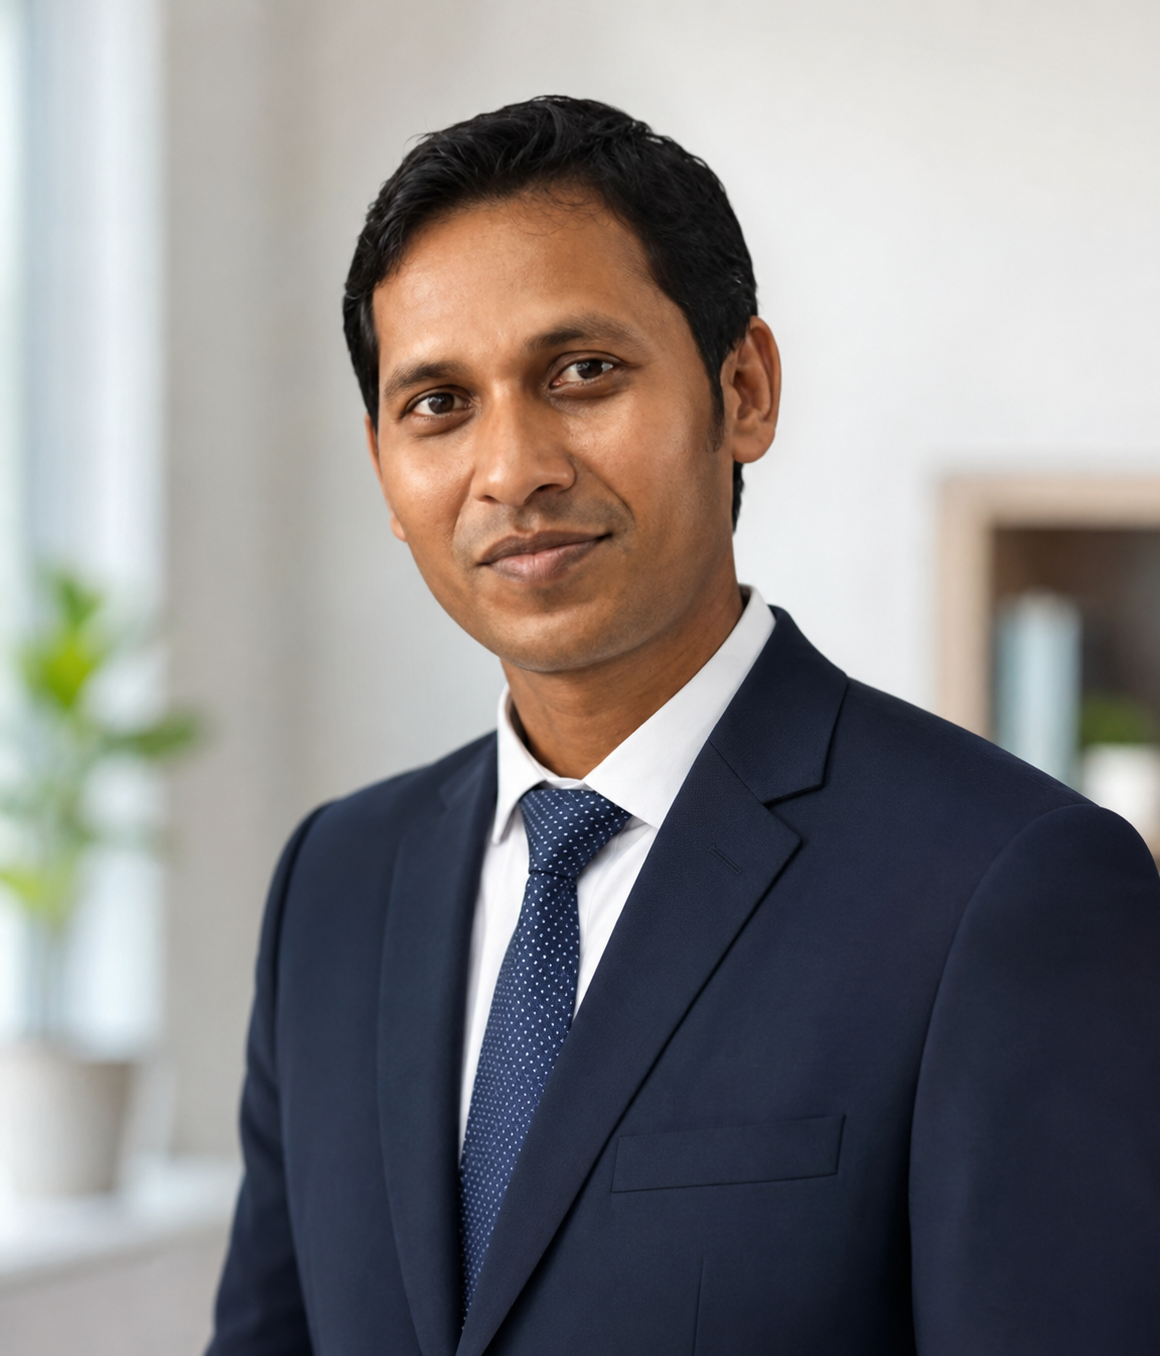
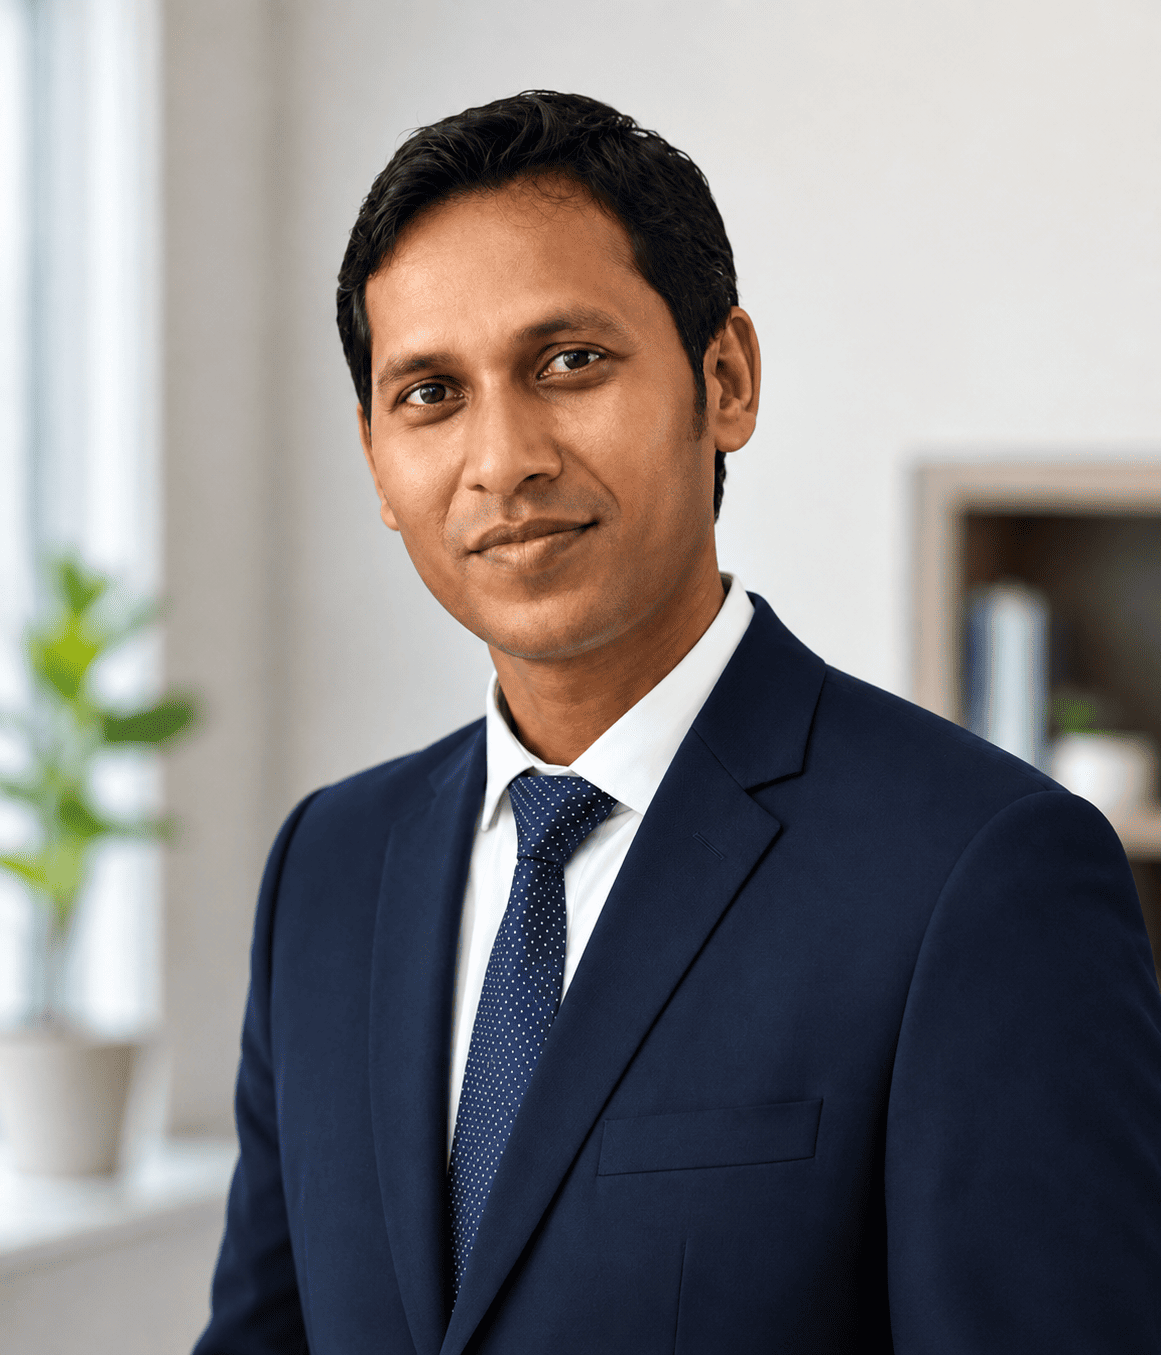
Updated photo, corriclum and fee structure part

diff --git a/data/coCurricularData.ts b/data/coCurricularData.ts
@@ -20,8 +20,8 @@ export const coCurricularData: CoCurricularSectionData[] = [
     id: "arts-creativity",
     title: "Arts & Creativity",
     subtitle: "Nurturing imagination through colour, design, and handmade expression.",
-    image: "/images/drawing.jpeg",
-    images: ["/images/drawing.jpeg", "/images/rangoli.jpg"],
+    image: "/images/drawing.png",
+    images: ["/images/drawing.png", "/images/rangoli.jpg"],
     layout: "stack",
     accent: "orange",
     items: [
@@ -39,8 +39,8 @@ export const coCurricularData: CoCurricularSectionData[] = [
     id: "performing-arts",
     title: "Performing Arts",
     subtitle: "Bringing rhythm, movement, voice and stagecraft to life.",
-    image: "/images/holistic.jpg",
-    images: ["/images/holistic.jpg", "/images/creative.jpg"],
+    image: "/images/holistic.png",
+    images: ["/images/holistic.png", "/images/creative.jpg"],
     layout: "gallery",
     accent: "purple",
     items: [
@@ -93,8 +93,8 @@ export const coCurricularData: CoCurricularSectionData[] = [
     id: "academic-enrichment",
     title: "Academic Enrichment",
     subtitle: "Encouraging curiosity beyond the regular classroom curriculum.",
-    image: "/images/olympiad-prize.jpeg",
-    images: ["/images/olympiad-prize.jpeg", "/images/olympiad-prize-2.jpeg"],
+    image: "/images/olympiad-prize.png",
+    images: ["/images/olympiad-prize.png", "/images/olympiad-prize-2.png"],
     layout: "split",
     accent: "sky",
     items: [
@@ -113,7 +113,7 @@ export const coCurricularData: CoCurricularSectionData[] = [
     title: "Cultural Activities",
     subtitle: "Celebrating traditions, values and shared joy in the school community.",
     image: "/images/gallery/gallery11.jpg",
-    images: ["/images/gallery/gallery11.jpg", "/images/holistic.jpg"],
+    images: ["/images/gallery/gallery11.jpg", "/images/holistic.png"],
     layout: "gallery",
     accent: "orange",
     items: [

diff --git a/components/home/Olympiad.tsx b/components/home/Olympiad.tsx
@@ -45,32 +45,32 @@ export default function Olympiad() {
 
           <div className="flex flex-wrap justify-center gap-4 mt-4">
             <img
-              src="/images/olympiad1.jpeg"
+              src="/images/olympiad1.png"
               alt="Olympiad 1"
               className="w-full md:w-[48%] lg:w-[23%] object-cover rounded-lg shadow-md"
             />
             <img
-              src="/images/olympiad2.jpeg"
+              src="/images/olympiad2.png"
               alt="Olympiad 2"
               className="w-full md:w-[48%] lg:w-[23%] object-cover rounded-lg shadow-md"
             />
             <img
-              src="/images/olympiad3.jpeg"
+              src="/images/olympiad3.png"
               alt="Olympiad 3"
               className="w-full md:w-[48%] lg:w-[23%] object-cover rounded-lg shadow-md"
             />
             <img
-              src="/images/olympiad4.jpeg"
+              src="/images/olympiad4.png"
               alt="Olympiad 4"
               className="w-full md:w-[48%] lg:w-[23%] object-cover rounded-lg shadow-md"
             />
             <img
-              src="/images/olympiad-prize.jpeg"
+              src="/images/olympiad-prize.png"
               alt="Olympiad 5"
               className="w-full md:w-[48%] lg:w-[47.5%] object-cover rounded-lg shadow-md"
             />
             <img
-              src="/images/olympiad-prize-2.jpeg"
+              src="/images/olympiad-prize-2.png"
               alt="Olympiad 5"
               className="w-full md:w-[48%] lg:w-[47.5%] object-cover rounded-lg shadow-md"
             />

diff --git a/components/Navbar.tsx b/components/Navbar.tsx
@@ -38,7 +38,7 @@ export default function Navbar() {
       label: "Admission",
       children: [
         { href: "/admission/admission-process", label: "Admission Process", icon: "user" },
-        { href: "/admission/fees", label: "School Fee", icon: "money" },
+        { href: "/admission/fees", label: "Fee Structure", icon: "money" },
       ],
     },
     { href: "/gallery", label: "Gallery" },
@@ -261,7 +261,7 @@ export default function Navbar() {
               className="w-10 h-10 object-contain"
             />
             <div>
-              <h5 className="font-bold text-orange-600 leading-tight">RM Suncity</h5>
+              <h5 className="font-bold text-orange-600 leading-tight">RM SUNCITY</h5>
               <p className="text-xs font-semibold text-gray-700 uppercase tracking-wider">
                 Public School
               </p>

diff --git a/app/academics/curriculum/page.tsx b/app/academics/curriculum/page.tsx
@@ -114,8 +114,8 @@ export default function Academics() {
           </div>
         </section>
 
-        <section className="bg-white px-4 py-12 sm:px-6 sm:py-16 md:py-20">
-          <div className="mx-auto max-w-5xl rounded-[32px] border border-gray-100 bg-gradient-to-r from-orange-500 to-orange-600 p-8 text-center text-white shadow-lg sm:p-10">
+        <section className="bg-gray-100 px-4 py-12 sm:px-6 sm:py-16 md:py-20">
+          <div className="mx-auto max-w-5xl rounded-[32px] bg-gradient-to-r from-amber-500 to-amber-600 p-8 text-center text-white shadow-lg sm:p-10">
             <h2 className="text-2xl font-semibold sm:text-3xl">
               Enroll today for a complete school journey
             </h2>

diff --git a/components/home/Highlights.tsx b/components/home/Highlights.tsx
@@ -24,13 +24,13 @@ const items = [
     title: "Holistic Development",
     description:
       "We support overall student growth through balanced learning in academics, sports, creativity, discipline, and character building.",
-    image: "/images/holistic.jpg",
+    image: "/images/holistic.png",
   },
   {
     title: "Computer Lab",
     description:
       "Students gain practical technology skills in our computer lab with access to modern systems and guided learning sessions.",
-    image: "/images/computer-lab.jpg",
+    image: "/images/computer-lab.png",
   },
   {
     title: "Rakshabandhan",

diff --git a/app/about/page.tsx b/app/about/page.tsx
@@ -6,7 +6,7 @@ import Achievements from "@/components/about/Achievements";
 
 export default function About() {
   return (
-    <main style={{ background: 'url("/images/bg_img1.jpg") no-repeat center/cover' }}>
+    <main style={{ background: 'url("/images/bg_img1.png") no-repeat center/cover' }}>
       <HeroAbout />
       <StorySection />
       <OurMission />

diff --git a/next-env.d.ts b/next-env.d.ts
@@ -1,6 +1,6 @@
 /// <reference types="next" />
 /// <reference types="next/image-types/global" />
-import "./.next/types/routes.d.ts";
+import "./.next/dev/types/routes.d.ts";
 
 // NOTE: This file should not be edited
 // see https://nextjs.org/docs/app/api-reference/config/typescript for more information.

diff --git a/components/home/Hero.tsx b/components/home/Hero.tsx
@@ -56,7 +56,7 @@ export default function Hero() {
       case "tablet":
         return "/images/school-tablet.jpeg";
       default:
-        return "/images/school.jpeg";
+        return "/images/school.png";
     }
   };
 
